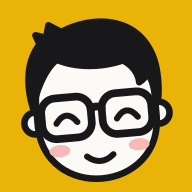
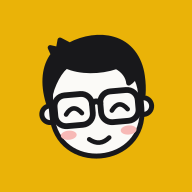
Give the mascot space inside a round frame
The head reached 93% of the way to the edge of a circle. The frame of
the drawing is wider now, so the head reaches 72%, and the favicons
are written again from it.

diff --git a/docs/redesign.md b/docs/redesign.md
@@ -198,7 +198,7 @@ Decided on 2026-11-22, after a look at Framer portfolio sites and [Paper Shaders
 | 404 number          | `/404`                               | The number as a shape, filled with the wave                                                                                                                                                                                                                                                                                                         |
 | Reading progress    | Posts                                | `.read-progress` in the header: a scroll timeline on the page                                                                                                                                                                                                                                                                                       |
 | Settle on scroll    | Sections marked `data-reveal`        | A view timeline. This replaced the script that revealed sections                                                                                                                                                                                                                                                                                    |
-| Header brand        | Home                                 | Slides up from a clip line as the hero avatar leaves                                                                                                                                                                                                                                                                                                |
+| Header brand        | Home                                 | Slides up from a clip line as the hero avatar leaves. A script in `site-header.astro` states the two ends (hidden, shown), so the brand never shows over the avatar where the scroll timeline does not run, as in Safari 26                                                                                                                         |
 | Theme change        | The toggle                           | The new theme opens as a circle from the button (view transition)                                                                                                                                                                                                                                                                                   |
 | Progressive blur    | The lower edge of the window         | `progressive-blur.astro`: five backdrop blurs, each masked to its own band, so no line shows where the blur starts. It is off while the footer band is in view                                                                                                                                                                                      |
 | Header ground       | Every page                           | The page color at 85% over a 12 px blur. It is off at the top of the page and comes in over the first 1.5rem of scroll, so the hero wave is sharp under the links                                                                                                                                                                                   |
@@ -223,7 +223,7 @@ A canvas must read pixels, and a browser cannot read them from `cdn.sanity.io` (
 
 Decided on 2026-11-22. The mascot is Gri: a cartoon face of Griko with a tuft of black hair, thick glasses, smiling eyes and a blush, on the accent amber (`#eab308`). It is new vector work, drawn from what the owner's avatars share (glasses, a side-swept quiff, an amber ground), not traced from them. For a few hours on the same day the mascot was the Tinypfp drawing on amber; that drawing stays in the gallery as `portrait-tinypfp`.
 
-- `packages/ui/src/mascot.svg` is the one drawing. `./scripts/make-icons.sh` writes the favicons for `web`, `archive` and Studio from it: a circle for browser tabs, the full square for home screens.
+- `packages/ui/src/mascot.svg` is the one drawing. Its frame leaves space around the head: the head reaches 72% of the way from the centre to the edge of a circle cut from the square. So a round frame, a rounded square and a maskable icon all show the whole head. The first frame (93%) was too tight in a circle. `./scripts/make-icons.sh` writes the favicons for `web`, `archive` and Studio from it: a circle for browser tabs, the full square for home screens.
 - `theme-head.astro` names the icons, so every page with the shared design has them. An archived version that names no icon of its own gets the same favicon, because it is the default file at the root.
 - nbr.st has no icon files. Its Worker sends `/favicon.ico` and `/favicon.svg` to nibras.co.
 - In Sanity the drawing is `portrait-gri`, and the profile's `icon` points at it: the home page, site headers and footers show it. An archived version without its own mascot shows it too.
